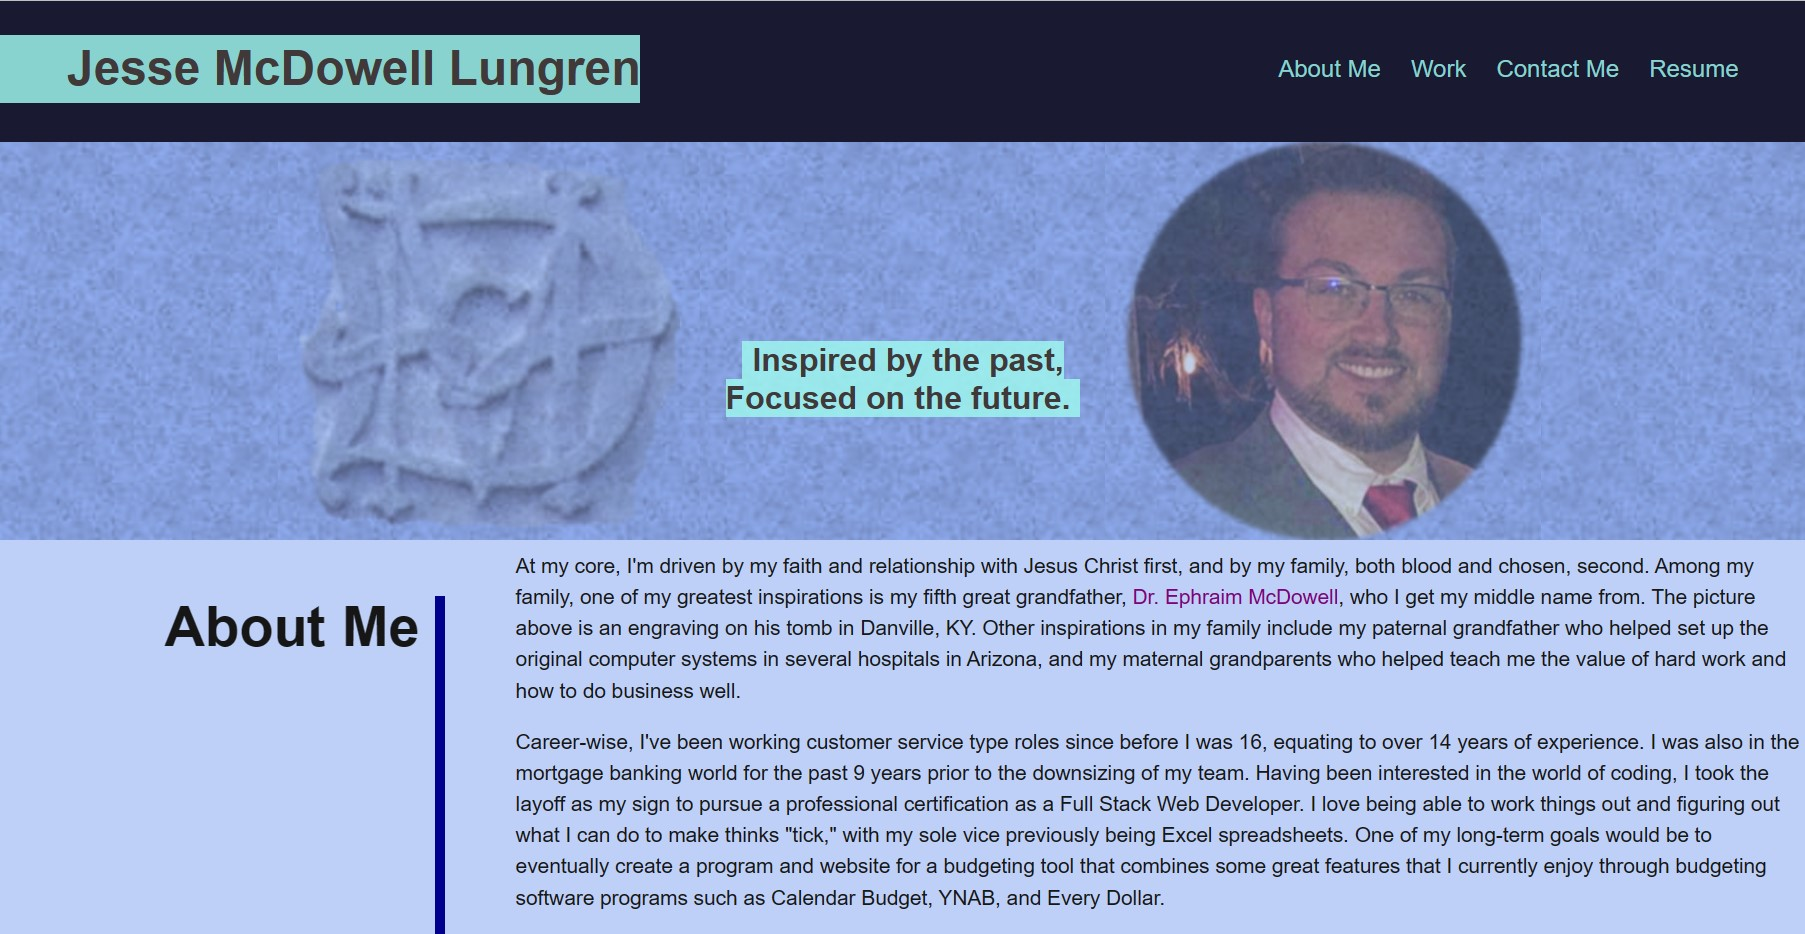
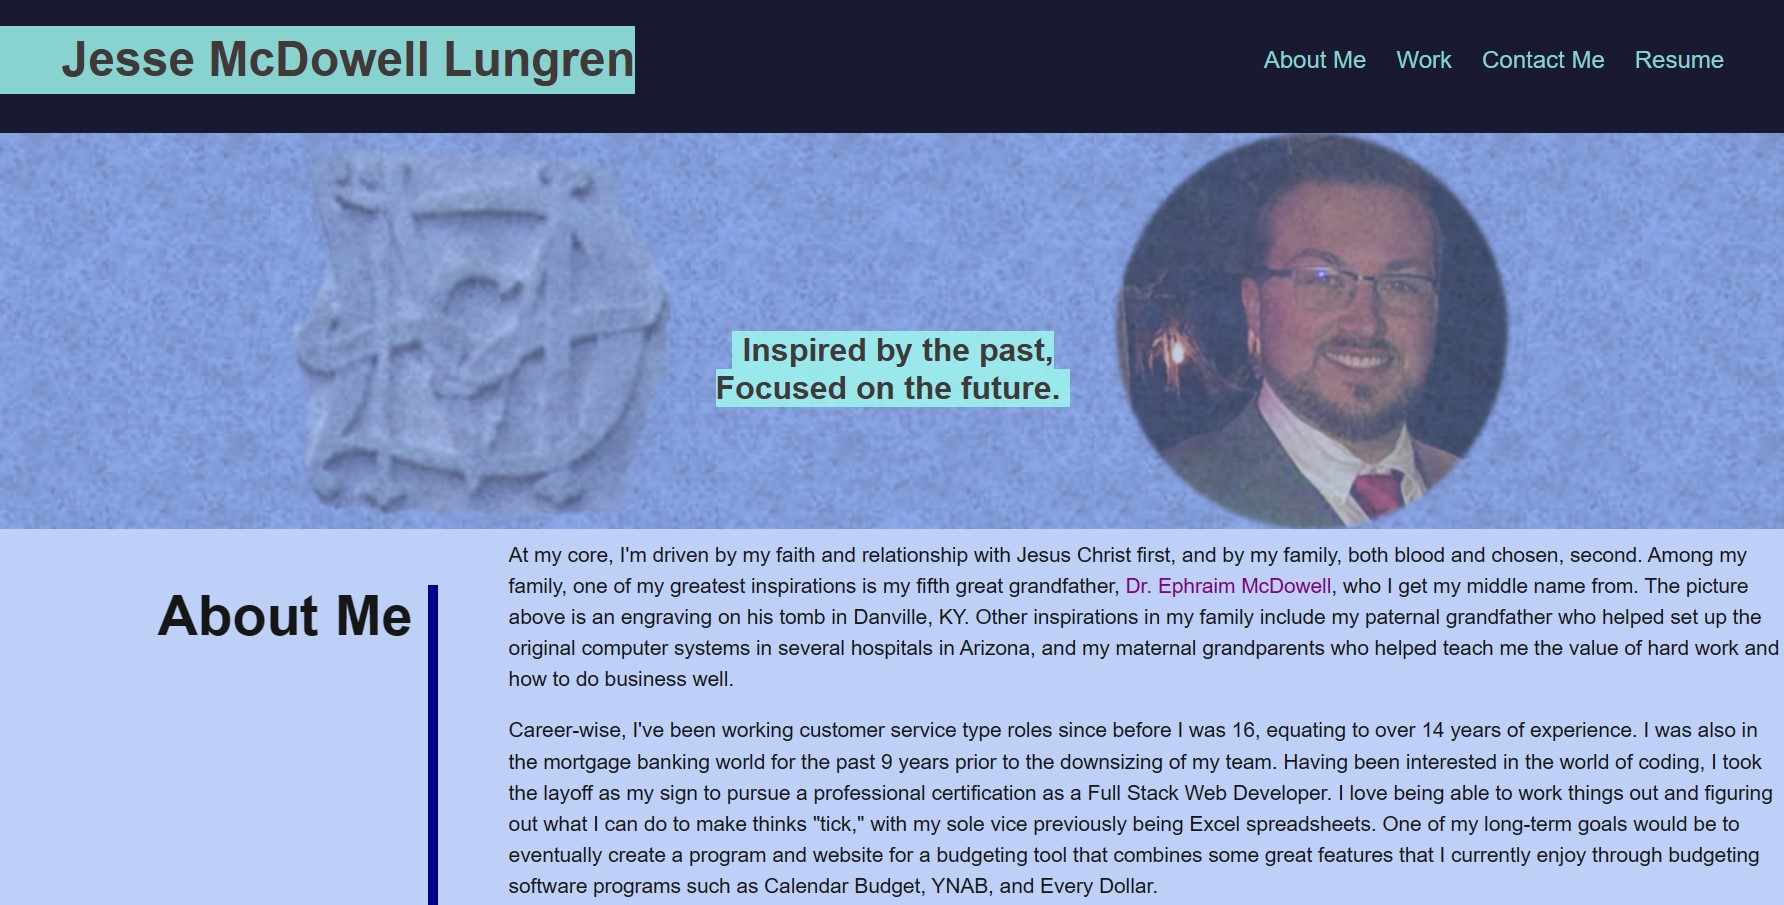
updated portfolio with projects completed within bootcamp, also updated README

diff --git a/index.html b/index.html
@@ -1,5 +1,6 @@
 <!DOCTYPE html>
 <html lang="en">
+
 <head>
     <meta charset="UTF-8">
     <meta http-equiv="X-UA-Compatible" content="IE=edge">
@@ -10,175 +11,141 @@
 </head>
 
 <body>
-    
     <header>
-        
         <h1>
             Jesse McDowell Lungren
         </h1>
-        
         <nav>
-            
             <a href="#about-me">About Me</a>
-            
             <a href="#work">Work</a>
-            
             <a href="#contact-me">Contact Me</a>
-            
             <a href="https://www.linkedin.com/in/jesse-lungren-600b1094/">Resume</a>
-        
         </nav>
-    
     </header>
 
     <section class="banner">
-        
         <article>
-            
             <h2>
                 Inspired by the past,<br />
                 Focused on the future.
             </h2>
-        
         </article>
-    
     </section>
 
     <main>
-
         <section id="about-me">
-            
             <h2>
                 About Me
             </h2>
-            
             <div class="About">
-            
                 <p class="About-p">
                     At my core, I'm driven by my faith and relationship with Jesus Christ first, and by my family, both blood and chosen, second. Among my family, one of my greatest inspirations is my fifth great grandfather, <a class="McDowell" href="http://mcdowellhouse.com/">Dr. Ephraim McDowell</a>, who I get my middle name from. The picture above is an engraving on his tomb in Danville, KY. Other inspirations in my family include my paternal grandfather who helped set up the original computer systems in several hospitals in Arizona, and my maternal grandparents who helped teach me the value of hard work and how to do business well.
                 </p>
-                
                 <p class="About-p">
                     Career-wise, I've been working customer service type roles since before I was 16, equating to over 14 years of experience. I was also in the mortgage banking world for the past 9 years prior to the downsizing of my team. Having been interested in the world of coding, I took the layoff as my sign to pursue a professional certification as a Full Stack Web Developer. I love being able to work things out and figuring out what I can do to make thinks "tick," with my sole vice previously being Excel spreadsheets. One of my long-term goals would be to eventually create a program and website for a budgeting tool that combines some great features that I currently enjoy through budgeting software programs such as Calendar Budget, YNAB, and Every Dollar.
                 </p>
-                
                 <p class="About-p">
-                    In the meantime, along with attending class for this 6-month long certification program, I also currently drive full time as an independent contractor partnering with platforms such as Uber, Lyft, and Veyo.
+                    In the meantime, along with attending class for this 6-month long certification program, I also currently drive full time as an independent contractor partnering with platforms such as Uber, Lyft, and Veyo. We are currently about half-way through the certification program, having learned front end and currently learning back end.
                 </p>
-            
             </div>
-        
         </section>
 
         <section id="work">
-            
             <h2>
                 Work
             </h2>
-            
             <div class="work-list">
-
-                <a href="https://jmcdlungren.github.io/prework-study-guide/" class="work-item prework-study-guide">
-                    
+                <a href="https://jmcdlungren.github.io/Global-Seek-2.0/" class="work-item global-seek">
                     <figure>
-                        
                         <h3>
-                            Prework Study Guide
+                            Global Seek: Know Before You Go
                         </h3>
-                        
                         <span>
                             HTML/CSS/Javascript
                         </span>
-                    
                     </figure>
-                
                 </a>
 
-                <a href="#" class="work-item led-wall">
-                    
+                <a href="https://drive.google.com/file/d/1SFqBqdqWUi5t1HUQxdw9t1ia8ko_fS9Q/view" class="work-item employee-tracker">
                     <figure>
-                        
                         <h3>
-                            LED Wall
+                            Employee Tracker
                         </h3>
-                        
                         <span>
-                            Node/IoT
+                            Javascript/Node/SQL
                         </span>
-                    
                     </figure>
-                
                 </a>
 
-                <a href="#" class="work-item calculator">
-                    
+                <a href="https://drive.google.com/file/d/1ZTmud7zMMANWmc0MpaB_OC7lL9taU_H1/view" class="work-item read-me-generator">
                     <figure>
-                        
                         <h3>
-                            Calculator
+                            README Generator
                         </h3>
-                        
                         <span>
-                            React/Javascript/CSS
+                            Javascript/Node/Inquirer
                         </span>
-                    
                     </figure>
-                
                 </a>
 
-                <a href="#" class="work-item pastel-puzzles">
-                    
+                <a href="https://jmcdlungren.github.io/Weather-Dashboard/" class="work-item weather-dashboard">
                     <figure>
-                        
                         <h3>
-                            Pastel Puzzels
+                            Weather Dashboard
                         </h3>
-                        
                         <span>
-                            MERN Stack
+                            Javascript/HTML
                         </span>
-                    
                     </figure>
-                
                 </a>
 
-                <a href="https://jmcdlungren.github.io/Horiseon/" class="work-item horiseon">
-                    
+                <a href="https://jmcdlungren.github.io/Work-Day-Scheduler/" class="work-item work-day-scheduler">
                     <figure>
-                        
                         <h3>
-                            Horiseon
+                            Work Day Scheduler
                         </h3>
-                        
                         <span>
-                            HTML/CSS
+                            Javascript/HTML/CSS
                         </span>
-                    
                     </figure>
-                
                 </a>
 
+                <a href="https://dry-castle-65219.herokuapp.com/" class="work-item note-taker">
+                    <figure>
+                        <h3>
+                            Note Taker
+                        </h3>
+                        <span>
+                            Javascript/Node/Express
+                        </span>
+                    </figure>
+                </a>
+
+                <a href="https://drive.google.com/file/d/1NyfUmtrB-wC-1jtUzJgzUiaiu4wDlFcY/view" class="work-item team-profile-generator">
+                    <figure>
+                        <h3>
+                            Team Profile Generator
+                        </h3>
+                        <span>
+                            Javascript/Node/Jest/Inquirer
+                        </span>
+                    </figure>
+                </a>
             </div>
-        
         </section>
 
         <section id="contact-me">
-            
             <h2>
                 Contact Me
             </h2>
-            
             <nav class="details">
                 <a href="tel:16027172892">602.717.2892</a>
                 <a href="mailto:j.mcd.lungren@gmail.com">j.mcd.lungren@gmail.com</a>
                 <a href="https://github.com/jmcdlungren">GitHub</a>
                 <a href="https://www.linkedin.com/in/jesse-lungren-600b1094/">LinkedIn</a>
             </nav>
-        
         </section>
-
     </main>
-
 </body>
 
 </html>

diff --git a/Assets/style.css b/Assets/style.css
@@ -217,29 +217,39 @@ main section h2 {
 
 }
 
-/* sets a class for styling for the first work-item class, which is the prework study guide */
-.prework-study-guide {
-    background-image: url(./images/Prework\ study\ guide.jpg);
+/* sets a class for styling for the first work-item class, which is the Global Seek project */
+.global-seek {
+    background-image: url(./images/Global\ Seek.png);
 }
 
-/* sets a class for styling for the first work-item class, which is the "LED wall," to be edited later once we complete more projects and challenges */
-.led-wall {
-    background-image: url(./images/LED\ Wall.jpg);
+/* sets a class for styling for the first work-item class, which is the Employee Tracker */
+.employee-tracker {
+    background-image: url(./images/Employee\ Tracker\ GIF.gif);
 }
 
-/* sets a class for styling for the first work-item class, which is the "Calculator," to be edited later once we complete more projects and challenges */
-.calculator {
-    background-image: url(./images/Calculator.jpg);
+/* sets a class for styling for the first work-item class, which is the README Generator */
+.read-me-generator {
+    background-image: url(./images/README\ Generator.gif);
 }
 
-/* sets a class for styling for the first work-item class, which is the "pastel puzzels," to be edited later once we complete more projects and challenges */
-.pastel-puzzles {
-    background-image: url(./images/Pastel\ Puzzels.jpg);
+/* sets a class for styling for the first work-item class, which is the Weather Dashboard */
+.weather-dashboard {
+    background-image: url(./images/Weather\ Dashboard.jpg);
 }
 
-/* sets a class for styling for the first work-item class, which is the Horiseon challenge */
-.horiseon {
-    background-image: url(./images/Horiseon.jpg);
+/* sets a class for styling for the first work-item class, which is the Work Day Scheduler */
+.work-day-scheduler {
+    background-image: url(./images/Work\ Day\ Scheduler.jpg);
+}
+
+/* sets a class for styling for the first work-item class, which is the Note Taker */
+.note-taker {
+    background-image: url(./images/Note\ Taker.jpg);
+}
+
+/* sets a class for styling for the first work-item class, which is the Team Profile Generator */
+.team-profile-generator {
+    background-image: url(./images/TeamGif.gif);
 }
 
 /* creates class for styling for the nav element within the contact-me section */

diff --git a/README.md b/README.md
@@ -1,8 +1,26 @@
 # My Portfolio
 
+[![License: MIT](https://img.shields.io/badge/License-MIT-yellow.svg)](https://opensource.org/licenses/MIT)
+
 ## Description
 
 This is a webpage designed to host some of my web development work to assist with potential clients or employers hiring me. I hope to create a space that will allow people to get a peak at my work and my overall skills, while also providing a few easy options to get in contact with my directly.
+
+## Table of Contents
+
+- [Installation](#installation)
+- [Usage](#usage)
+- [License](#license)
+- [Questions and Contributing](#questions-and-contributing)
+- [Tests](#tests)
+
+## Installation
+
+N/A
+
+## Usage
+
+The top part of the webpage includes quick navigation items to get to my "About Me," "Work," "Contact," and "Resume" (which is linked to my LinkedIn). The body includes details about myself, some examples of work, and finally my direct contact information including my phone number, email, GitHub, and LinkedIn.
 
 Screenshots as follows:
 
@@ -20,16 +38,16 @@ Screenshots as follows:
 
 [GitHub Repository Link](https://github.com/jmcdlungren/My-Portfolio)
 
-## Usage
-
-The top part of the webpage includes quick navigation items to get to my "About Me," "Work," "Contact," and "Resume" (which is linked to my LinkedIn). The body includes details about myself, some examples of work, and finally my direct contact information including my phone number, email, GitHub, and LinkedIn.
-
-
-
-## Credits
-
-N/A
-
 ## License
 
-Please refer to the LICENSE in the repo.
+[The MIT License](https://opensource.org/licenses/MIT)
+
+## Questions and Contributing
+
+If you have any questions, you can contact me by [email](j.mcd.lungren@gmail.com) or through [GitHub](https://github.com/jmcdlungren).
+
+If you are interested in contributing, please follow the guidelines outlined within the [Contributor Covenant](https://www.contributor-covenant.org/).
+
+## Tests
+
+N/A
